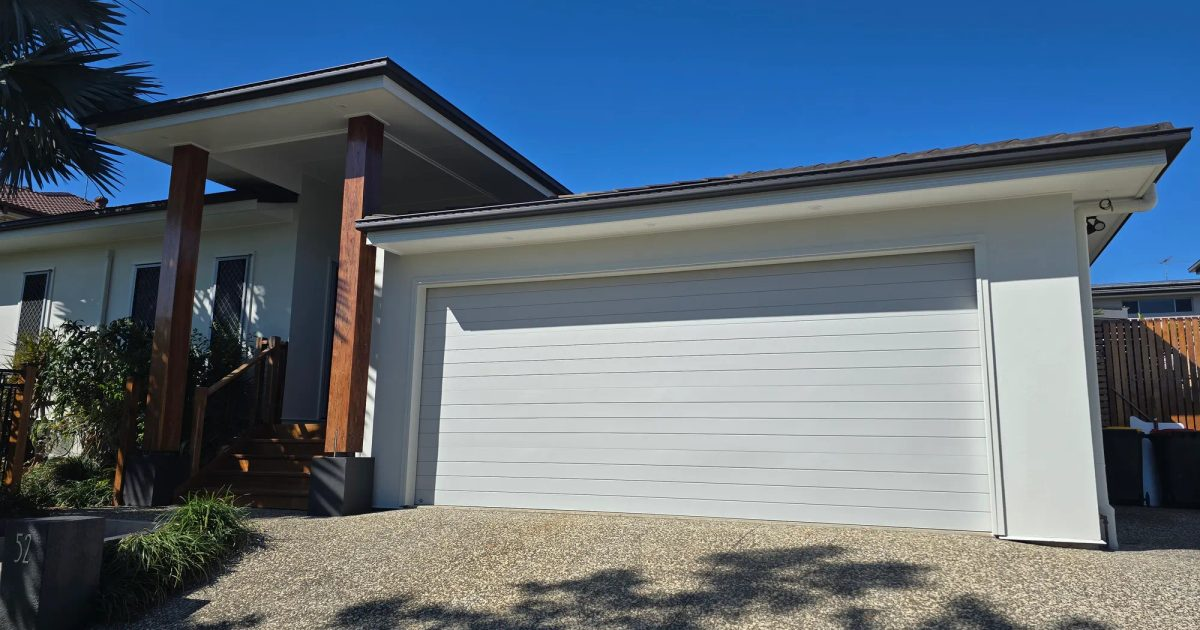
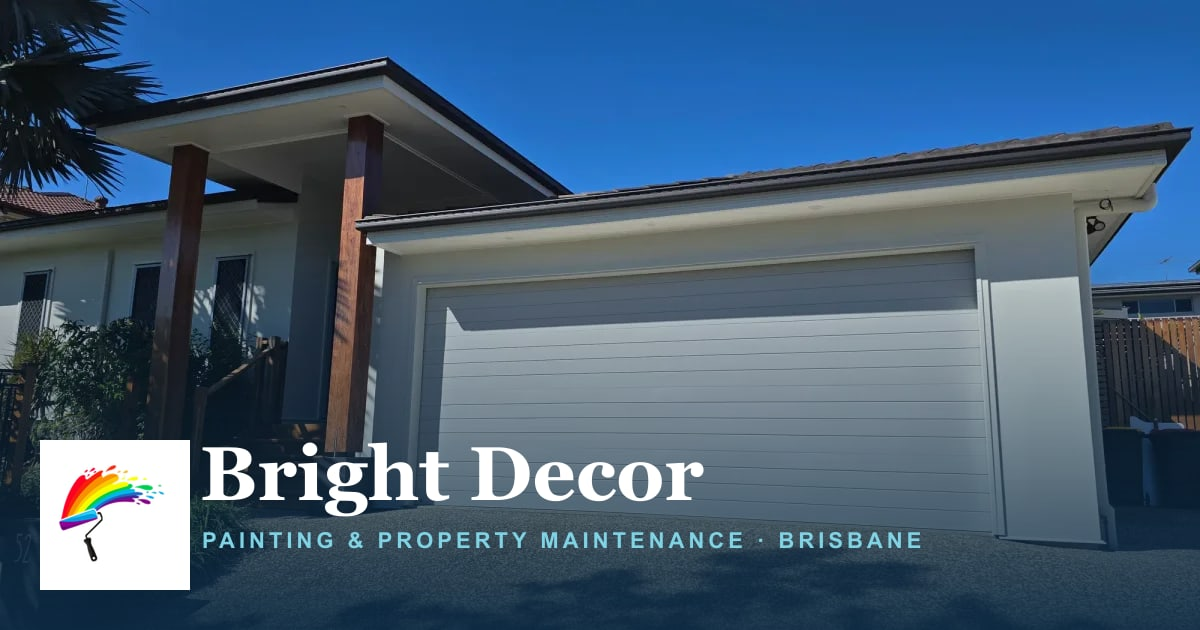
commit12
:wq

diff --git a/app/api/quote/route.ts b/app/api/quote/route.ts
@@ -1,9 +1,11 @@
 import { NextResponse } from "next/server";
+import { deliver } from "@/lib/mail";
 
 export const runtime = "nodejs";
 
 type Body = Record<string, unknown>;
 
+// Best-effort limiter (per server instance). Honeypot + timing checks below do the heavy lifting.
 const hits = new Map<string, number[]>();
 function limited(ip: string) {
   const now = Date.now();
@@ -14,48 +16,9 @@ function limited(ip: string) {
 }
 
 const s = (v: unknown, max = 300) => (typeof v === "string" ? v.trim().slice(0, max) : "");
+// single-line fields: no line breaks, so nothing can be injected into mail headers
+const line = (v: unknown, max = 300) => s(v, max).replace(/[\r\n\t<>"]+/g, " ").trim();
 const esc = (v: string) => v.replace(/[&<>"']/g, (c) => ({ "&": "&amp;", "<": "&lt;", ">": "&gt;", '"': "&quot;", "'": "&#39;" })[c]!);
-
-async function sendBrevo(lead: Lead, text: string, html: string) {
-  const key = process.env.BREVO_API_KEY;
-  if (!key) return null;
-  const to = process.env.QUOTE_TO_EMAIL || "max@brightdecor.com.au";
-  const from = process.env.QUOTE_FROM_EMAIL || to;
-  const res = await fetch("https://api.brevo.com/v3/smtp/email", {
-    method: "POST",
-    headers: { "api-key": key, "content-type": "application/json", accept: "application/json" },
-    body: JSON.stringify({
-      sender: { name: "Bright Decor Website", email: from },
-      to: [{ email: to }],
-      replyTo: { email: lead.email, name: lead.name },
-      subject: `New quote request: ${lead.name}${lead.suburb ? ` (${lead.suburb})` : ""}`,
-      textContent: text,
-      htmlContent: html,
-    }),
-  });
-  return res.ok;
-}
-
-async function sendTelegram(text: string) {
-  const token = process.env.TELEGRAM_BOT_TOKEN;
-  const chat = process.env.TELEGRAM_CHAT_ID;
-  if (!token || !chat) return null;
-  const res = await fetch(`https://api.telegram.org/bot${token}/sendMessage`, {
-    method: "POST",
-    headers: { "content-type": "application/json" },
-    body: JSON.stringify({ chat_id: chat, text }),
-  });
-  return res.ok;
-}
-
-type Lead = {
-  name: string;
-  email: string;
-  phone: string;
-  service: string;
-  suburb: string;
-  message: string;
-};
 
 export async function POST(req: Request) {
   const ip = req.headers.get("x-forwarded-for")?.split(",")[0]?.trim() || "unknown";
@@ -71,12 +34,12 @@ export async function POST(req: Request) {
   // Bots: filled honeypot or submitted impossibly fast. Pretend success.
   if (s(b.website) || (typeof b.elapsed === "number" && b.elapsed < 2500)) return NextResponse.json({ ok: true });
 
-  const lead: Lead = {
-    name: s(b.name, 120),
-    email: s(b.email, 200),
-    phone: s(b.phone, 40),
-    service: s(b.service, 60),
-    suburb: s(b.suburb, 160),
+  const lead = {
+    name: line(b.name, 120),
+    email: line(b.email, 200),
+    phone: line(b.phone, 40),
+    service: line(b.service, 60),
+    suburb: line(b.suburb, 160),
     message: s(b.message, 2000),
   };
 
@@ -97,21 +60,22 @@ export async function POST(req: Request) {
     .map(([k, v]) => `<tr><td style="color:#666;vertical-align:top">${esc(k)}</td><td>${esc(v).replace(/\n/g, "<br>")}</td></tr>`)
     .join("")}</table>`;
 
-  const results = await Promise.allSettled([sendBrevo(lead, text, html), sendTelegram(text)]);
-  const outcomes = results.map((r) => (r.status === "fulfilled" ? r.value : false));
-  const configured = outcomes.filter((o) => o !== null);
+  const to = process.env.QUOTE_TO_EMAIL || "max@brightdecor.com.au";
+  const result = await deliver({
+    to,
+    from: process.env.QUOTE_FROM_EMAIL || to,
+    replyTo: { email: lead.email, name: lead.name },
+    subject: `New quote request: ${lead.name}${lead.suburb ? ` (${lead.suburb})` : ""} - ${lead.service}`,
+    text,
+    html,
+  });
 
-  if (configured.length === 0) {
-    if (process.env.NODE_ENV !== "production") {
-      console.log("[quote] no delivery channel configured (dev) — lead:\n" + text);
-      return NextResponse.json({ ok: true });
-    }
-    console.error("[quote] BREVO_API_KEY / TELEGRAM_* not set");
-    return NextResponse.json({ error: "Could not send your request" }, { status: 503 });
+  if (result === "sent") return NextResponse.json({ ok: true });
+
+  if (result === "none" && process.env.NODE_ENV !== "production") {
+    console.log("[quote] no delivery channel configured (dev), lead:\n" + text);
+    return NextResponse.json({ ok: true });
   }
-  if (!configured.some(Boolean)) {
-    console.error("[quote] all delivery channels failed");
-    return NextResponse.json({ error: "Could not send your request" }, { status: 502 });
-  }
-  return NextResponse.json({ ok: true });
+  console.error(result === "none" ? "[quote] no mail provider configured" : "[quote] all delivery channels failed");
+  return NextResponse.json({ error: "Could not send your request" }, { status: result === "none" ? 503 : 502 });
 }

diff --git a/lib/mail.ts b/lib/mail.ts
@@ -1,0 +1,104 @@
+import nodemailer from "nodemailer";
+
+export type Mail = {
+  to: string;
+  from: string;
+  replyTo: { email: string; name: string };
+  subject: string;
+  text: string;
+  html: string;
+};
+
+/**
+ * Each sender returns null when its provider is not configured,
+ * true when the message was accepted, false when the provider failed.
+ */
+type Sender = (m: Mail) => Promise<boolean | null>;
+
+const brevo: Sender = async (m) => {
+  const key = process.env.BREVO_API_KEY;
+  if (!key) return null;
+  const res = await fetch("https://api.brevo.com/v3/smtp/email", {
+    method: "POST",
+    headers: { "api-key": key, "content-type": "application/json", accept: "application/json" },
+    body: JSON.stringify({
+      sender: { name: "Bright Decor Website", email: m.from },
+      to: [{ email: m.to }],
+      replyTo: m.replyTo,
+      subject: m.subject,
+      textContent: m.text,
+      htmlContent: m.html,
+    }),
+  });
+  return res.ok;
+};
+
+const resend: Sender = async (m) => {
+  const key = process.env.RESEND_API_KEY;
+  if (!key) return null;
+  const res = await fetch("https://api.resend.com/emails", {
+    method: "POST",
+    headers: { Authorization: `Bearer ${key}`, "content-type": "application/json" },
+    body: JSON.stringify({
+      from: `Bright Decor Website <${m.from}>`,
+      to: [m.to],
+      reply_to: m.replyTo.email,
+      subject: m.subject,
+      text: m.text,
+      html: m.html,
+    }),
+  });
+  return res.ok;
+};
+
+/** Any SMTP mailbox: Google Workspace, Microsoft 365, Zoho, GoDaddy, cPanel, Mailgun, SES... */
+const smtp: Sender = async (m) => {
+  const host = process.env.SMTP_HOST;
+  if (!host) return null;
+  const port = Number(process.env.SMTP_PORT || 587);
+  const transport = nodemailer.createTransport({
+    host,
+    port,
+    secure: port === 465,
+    auth: process.env.SMTP_USER ? { user: process.env.SMTP_USER, pass: process.env.SMTP_PASS } : undefined,
+  });
+  await transport.sendMail({
+    from: `"Bright Decor Website" <${m.from}>`,
+    to: m.to,
+    replyTo: `"${m.replyTo.name.replace(/"/g, "")}" <${m.replyTo.email}>`,
+    subject: m.subject,
+    text: m.text,
+    html: m.html,
+  });
+  return true;
+};
+
+const telegram = async (text: string): Promise<boolean | null> => {
+  const token = process.env.TELEGRAM_BOT_TOKEN;
+  const chat = process.env.TELEGRAM_CHAT_ID;
+  if (!token || !chat) return null;
+  const res = await fetch(`https://api.telegram.org/bot${token}/sendMessage`, {
+    method: "POST",
+    headers: { "content-type": "application/json" },
+    body: JSON.stringify({ chat_id: chat, text }),
+  });
+  return res.ok;
+};
+
+/**
+ * Runs every configured channel. Returns:
+ *  - "none"   nothing is configured
+ *  - "failed" channels are configured but all of them failed
+ *  - "sent"   at least one channel accepted the message
+ */
+export async function deliver(m: Mail): Promise<"none" | "failed" | "sent"> {
+  const results = await Promise.allSettled([brevo(m), resend(m), smtp(m), telegram(`${m.subject}\n\n${m.text}`)]);
+  const outcomes = results.map((r) => {
+    if (r.status === "fulfilled") return r.value;
+    console.error("[quote] channel error:", r.reason instanceof Error ? r.reason.message : r.reason);
+    return false;
+  });
+  const configured = outcomes.filter((o) => o !== null);
+  if (!configured.length) return "none";
+  return configured.some(Boolean) ? "sent" : "failed";
+}

diff --git a/next.config.ts b/next.config.ts
@@ -1,8 +1,25 @@
 import type { NextConfig } from "next";
 
+const security = [
+  { key: "X-Content-Type-Options", value: "nosniff" },
+  { key: "X-Frame-Options", value: "SAMEORIGIN" },
+  { key: "Referrer-Policy", value: "strict-origin-when-cross-origin" },
+  { key: "Permissions-Policy", value: "camera=(), microphone=(), geolocation=()" },
+  { key: "Strict-Transport-Security", value: "max-age=63072000; includeSubDomains; preload" },
+];
+
+const immutable = [{ key: "Cache-Control", value: "public, max-age=31536000, immutable" }];
+
 const config: NextConfig = {
   poweredByHeader: false,
-  images: { formats: ["image/webp"] },
+  images: { formats: ["image/webp"], minimumCacheTTL: 31536000 },
+  async headers() {
+    return [
+      { source: "/:path*", headers: security },
+      { source: "/img/:path*", headers: immutable },
+      { source: "/icons/:path*", headers: immutable },
+    ];
+  },
 };
 
 export default config;

diff --git a/app/layout.tsx b/app/layout.tsx
@@ -42,6 +42,10 @@ export const metadata: Metadata = {
   twitter: { card: "summary_large_image", title, description, images: ["/og.jpg"] },
   robots: { index: true, follow: true, googleBot: { "max-image-preview": "large", "max-snippet": -1 } },
   formatDetection: { telephone: false },
+  verification: {
+    google: process.env.GOOGLE_SITE_VERIFICATION || undefined,
+    other: { "msvalidate.01": "EF0708005C6D7ABB43E456DF919321AC" },
+  },
 };
 
 export const viewport: Viewport = { themeColor: "#ffffff", width: "device-width", initialScale: 1 };

diff --git a/README.md b/README.md
@@ -24,12 +24,16 @@ pnpm dev                     # http://localhost:3000
 
 ## Environment variables
 
-See `.env.example`. The quote form needs at least one delivery channel:
+See `.env.example`. The quote form needs one email provider (more than one can be set; every configured one is used):
 
-- Brevo: `BREVO_API_KEY`, `QUOTE_TO_EMAIL`, `QUOTE_FROM_EMAIL`
+- Brevo: `BREVO_API_KEY`
+- Resend: `RESEND_API_KEY`
+- Any SMTP mailbox: `SMTP_HOST`, `SMTP_PORT`, `SMTP_USER`, `SMTP_PASS`
 - Telegram (optional): `TELEGRAM_BOT_TOKEN`, `TELEGRAM_CHAT_ID`
 
-Set `NEXT_PUBLIC_SITE_URL` to the live domain (used for canonical URLs, sitemap and structured data).
+Also set `QUOTE_TO_EMAIL` and `QUOTE_FROM_EMAIL` (the sender must be verified with the provider).
+Set `NEXT_PUBLIC_SITE_URL` to the live domain (canonical URLs, sitemap and structured data).
+Optional: `GOOGLE_SITE_VERIFICATION` adds the Search Console verification tag.
 
 ## Deploying
 
